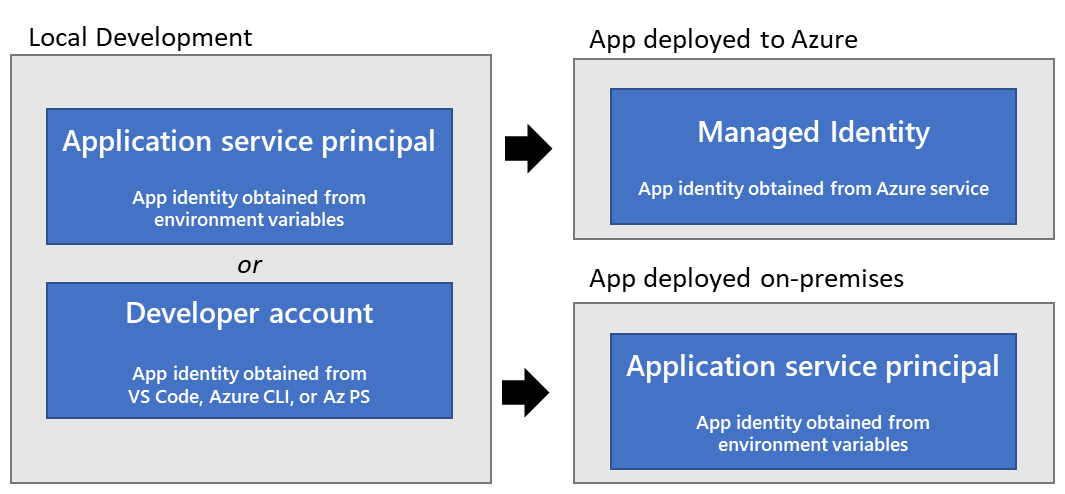
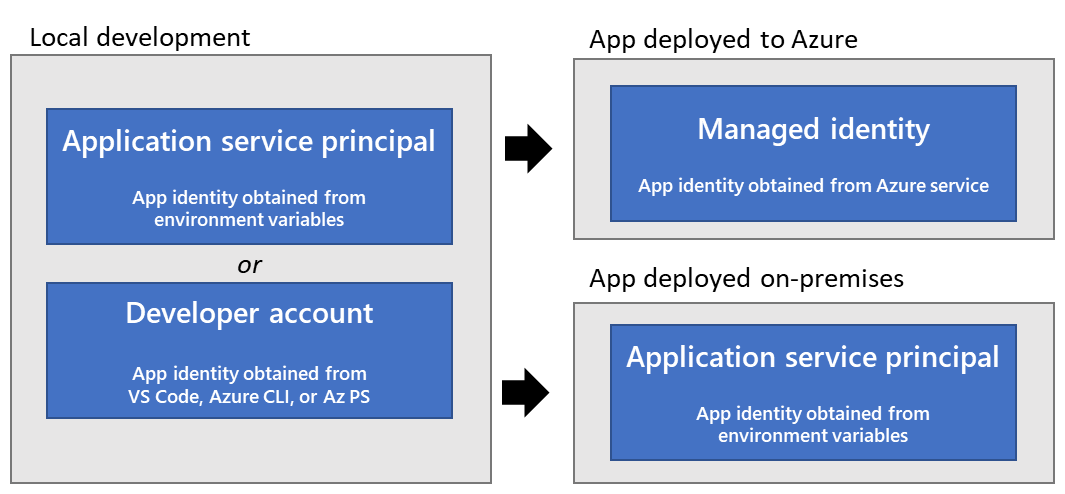
Update image to center items Add section on setting environment variables in Gunicorn

diff --git a/articles/python/sdk/authentication-on-premises-apps.md b/articles/python/sdk/authentication-on-premises-apps.md
@@ -1,12 +1,12 @@
 ---
-title: Azure authentication in Python apps hosted on-premises
+title: Authenticate to Azure resources from Python apps hosted on-premises
 description: This article describes how to authenticate your application to Azure services when using the Azure SDK for Python in on-premises hosted applications. 
 ms.date: 03/31/2022
 ms.topic: how-to
 ms.custom: devx-track-python
 ---
 
-# Azure authentication in Python apps hosted on-premises
+# Authenticate to Azure resources from Python apps hosted on-premises
 
 Apps hosted outside of Azure (for example on-premises or at a third-party data center) should use an application service principal to authenticate to Azure when accessing Azure resources.  Application service principal objects are created using the app registration process in Azure.  When an application service principal is created, a client ID and client secret will be generated for your app.  The client ID, client secret, and your tenant ID are then stored in environment variables so they can be used by the Azure SDK for Python to authenticate your app to Azure at runtime.
 
@@ -97,7 +97,33 @@ For information on assigning permissions at the resource or subscription level u
 
 ## 3 - Configure environment variables for application
 
+You must set the `AZURE_CLIENT_ID`, `AZURE_TENANT_ID`, and `AZURE_CLIENT_SECRET` environment variables for the process that runs your Python app to make the application service principal credentials available to your app at runtime.  The `DefaultAzureCredential` object looks for the service principal information in these environment variables.
 
+When using [Gunicorn](https://gunicorn.org/) to run Python web apps in a UNIX server environment, environment variables for an app can be specified by using the `EnvironmentFile` directive in the `gunicorn.server` file as shown below.
+
+```gunicorn.server
+[Unit]
+Description=gunicorn daemon
+After=network.target  
+  
+[Service]  
+User=www-user
+Group=www-data
+WorkingDirectory=/path/to/python-app
+EnvironmentFile=/path/to/python-app/py-env/app-environment-variables
+ExecStart=/path/to/python-app/py-env/gunicorn --config config.py wsgi:app
+            
+[Install]  
+WantedBy=multi-user.target
+```
+
+The file specified in the `EnvironmentFile` directive should contain a list of environment variables with their values as shown below.
+
+```bash
+AZURE_CLIENT_ID=<value>
+AZURE_TENANT_ID=<value>
+AZURE_CLIENT_SECRET=<value>
+```
 
 ## 4 - Implement DefaultAzureCredential in application
 
